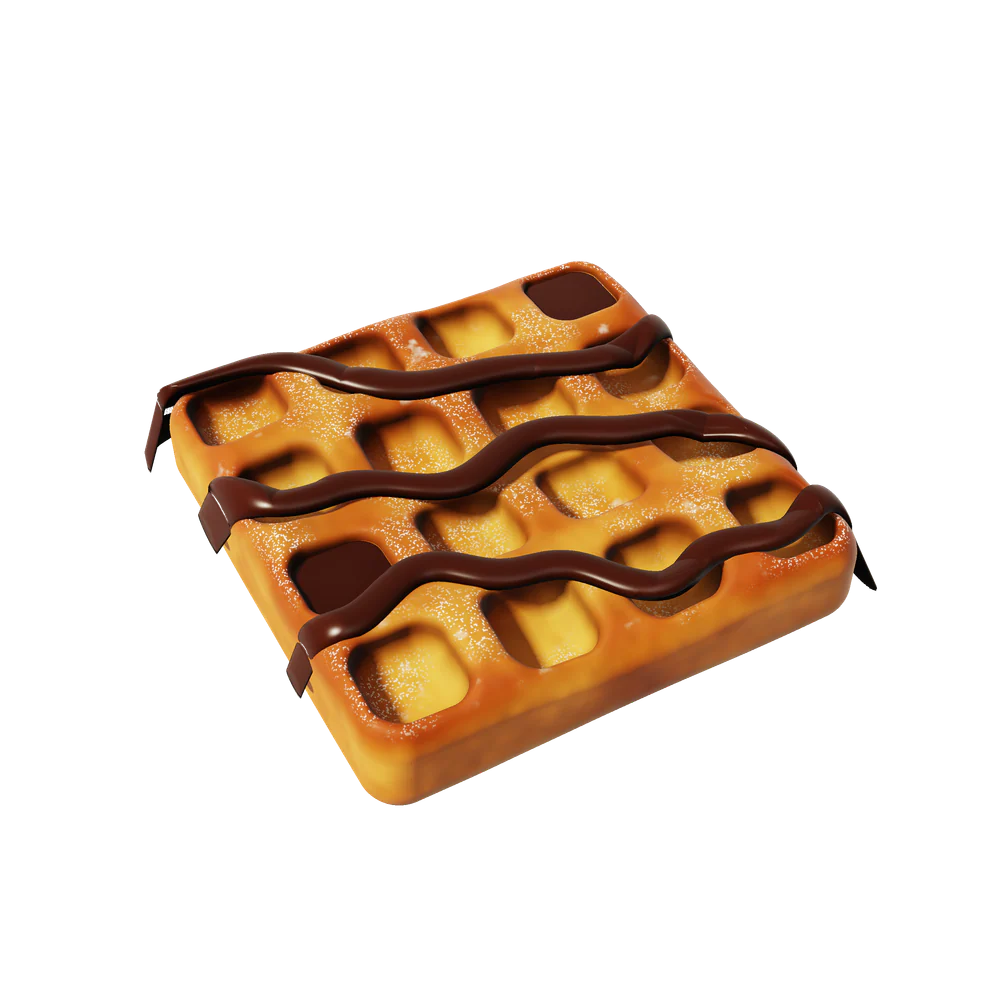
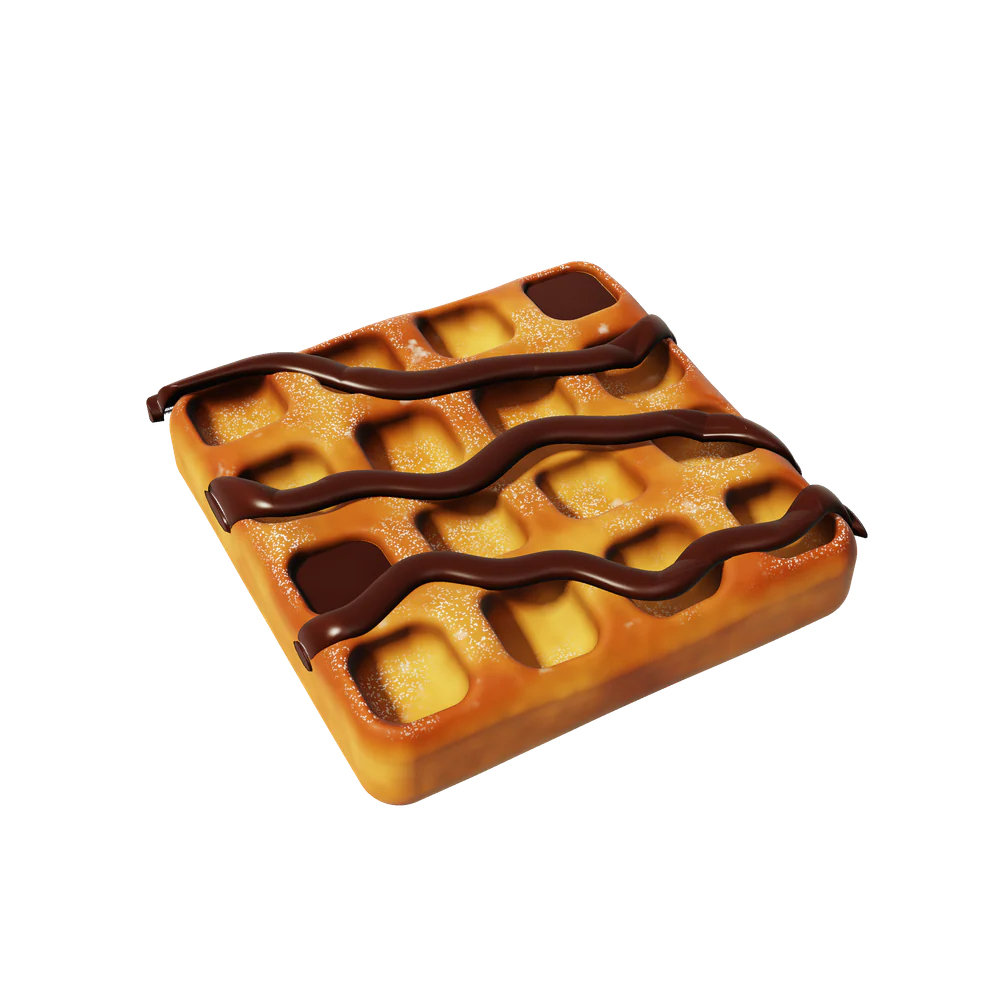
Critique cycles 2–3: art direction, accessibility, robustness
- Nº01 waffle re-rendered (bitter chocolate + pistachio crumbs)
- Compass needle on the regions teaser; stronger menu ring
- Shake sits inside the A of SHAKE; product scenes on a 12-col grid
- Reveal masks open past the box (no clipped shadows), IO threshold 0
- Contrast and heading-order fixes (axe: 0 violations), valid HTML
- Curtain listens only to its own clip-path transition
- Hero poster re-rendered to match the live first frame
- Hidden menu panels no longer preload; no-JS type fallbacks
- README: deployment, price updates, image slot specs, open items

Claude-Session: https://claude.ai/code/session_011WxLgstcs8Zsx1KYuAuDaH

diff --git a/index.html b/index.html
@@ -127,7 +127,7 @@
           <span data-pass="2">BARDAKTA</span>
         </div>
 
-        <ol class="hero__beats" aria-label="Cupistan nasıl doğdu">
+        <ol class="hero__beats">
           <li class="hero__beat is-active" data-beat="0">
             <span class="t-micro">01 — Waffle</span>
             <p>Önce waffle. Dört kenar, on altı cep, tek bir çıtırlık.</p>
@@ -160,7 +160,8 @@
     </section>
 
     <!-- ======================================================= PRODUCTS -->
-    <div class="products" aria-label="Öne çıkan ürünler">
+    <section class="products" aria-labelledby="products-title">
+      <h2 id="products-title" class="sr-only">Öne çıkan ürünler</h2>
 
       <!-- Nº01 — Waffle: oversized, bleeding off the left edge, name standing vertical -->
       <article class="scene scene--waffle" aria-labelledby="p01-title" data-tilt-area>
@@ -176,7 +177,7 @@
         <p class="scene__display" aria-hidden="true"><span data-fit>WAFFLE</span></p>
         <div class="scene__info" data-reveal-group>
           <p class="scene__no t-micro"><span>Nº 01</span><span>Waffle</span></p>
-          <h2 id="p01-title" class="scene__title"><span class="line"><span>Fıstıklı</span></span><span class="line"><span style="--i:1">Waffle</span></span></h2>
+          <h3 id="p01-title" class="scene__title"><span class="line"><span>Fıstıklı</span></span><span class="line"><span style="--i:1">Waffle</span></span></h3>
           <p class="scene__desc" data-reveal="fade" style="--i:2">Belçika usulü hamur, bitter çikolata, bol kırık Antep fıstığı. Dört kenarı çıtır, on altı cebi dolu.</p>
           <p class="scene__price price" data-reveal="fade" style="--i:3" data-item="fistikli-waffle"><data value="420">420 ₺</data></p>
         </div>
@@ -196,7 +197,7 @@
         </div>
         <div class="scene__info" data-reveal-group>
           <p class="scene__no t-micro"><span>Nº 02</span><span>İmza</span></p>
-          <h2 id="p02-title" class="scene__title"><span class="line"><span>Cupistan</span></span><span class="line"><span style="--i:1">Cup</span></span></h2>
+          <h3 id="p02-title" class="scene__title"><span class="line"><span>Cupistan</span></span><span class="line"><span style="--i:1">Cup</span></span></h3>
           <p class="scene__desc" data-reveal="fade" style="--i:2">Waffle parçaları, bir top dondurma, üstünden akan bitter çikolata. Hepsi tek bardakta; yürürken yenir.</p>
           <p class="scene__price price" data-reveal="fade" style="--i:3" data-item="cupistan-cup"><data value="260">260 ₺</data></p>
         </div>
@@ -223,7 +224,7 @@
         </div>
         <div class="scene__info" data-reveal-group>
           <p class="scene__no t-micro"><span>Nº 03</span><span>Dondurma</span></p>
-          <h2 id="p03-title" class="scene__title"><span class="line"><span data-stretch>Üç Top</span></span><span class="line"><span style="--i:1">Bardak</span></span></h2>
+          <h3 id="p03-title" class="scene__title"><span class="line"><span data-stretch>Üç Top</span></span><span class="line"><span style="--i:1">Bardak</span></span></h3>
           <p class="scene__desc" data-reveal="fade" style="--i:2">Üç top, üç karakter: Antep fıstığı, bitter çikolata, sade. Tepesine sıcak çikolata.</p>
           <p class="scene__price price" data-reveal="fade" style="--i:3" data-item="uc-top-bardak"><data value="195">195 ₺</data></p>
         </div>
@@ -255,7 +256,7 @@
         </div>
         <div class="scene__info" data-reveal-group>
           <p class="scene__no t-micro"><span>Nº 04</span><span>Tatlı</span></p>
-          <h2 id="p04-title" class="scene__title"><span class="line"><span>Ekler</span></span></h2>
+          <h3 id="p04-title" class="scene__title"><span class="line"><span>Ekler</span></span></h3>
           <div class="scene__switch" role="group" aria-label="Kaplama seç">
             <button type="button" data-variant="cikolata" aria-pressed="true">Çikolata</button>
             <button type="button" data-variant="fistik" aria-pressed="false">Fıstık</button>
@@ -283,7 +284,7 @@
         </div>
         <div class="scene__info" data-reveal-group>
           <p class="scene__no t-micro"><span>Nº 05</span><span>İçecek</span></p>
-          <h2 id="p05-title" class="scene__title"><span class="line"><span>Çikolatalı</span></span><span class="line"><span style="--i:1">Milkshake</span></span></h2>
+          <h3 id="p05-title" class="scene__title"><span class="line"><span>Çikolatalı</span></span><span class="line"><span style="--i:1">Milkshake</span></span></h3>
           <p class="scene__desc" data-reveal="fade" style="--i:2">Yoğun, soğuk, kremalı. Pipet altın, bardak siyah, gerisi çikolata.</p>
           <p class="scene__price price" data-reveal="fade" style="--i:3" data-item="cikolatali-milkshake"><data value="190">190 ₺</data></p>
         </div>
@@ -297,7 +298,7 @@
           <figcaption><span class="t-micro">Bir de</span> Türk kahvesi, lokumuyla. <span class="price" data-item="turk-kahvesi"><data value="90">90 ₺</data></span></figcaption>
         </figure>
       </article>
-    </div>
+    </section>
 
     <!-- ========================================================== STORY -->
     <section class="story" aria-labelledby="story-title">

diff --git a/assets/js/modules/transition.js b/assets/js/modules/transition.js
@@ -26,7 +26,12 @@ export function initTransition() {
     requestAnimationFrame(() => requestAnimationFrame(() => {
       curtain.classList.add('is-out');
       curtain.classList.remove('is-cover');
-      curtain.addEventListener('transitionend', () => curtain.classList.remove('is-out'), { once: true });
+      const clear = (ev) => {
+        if (ev.target !== curtain) return;
+        curtain.removeEventListener('transitionend', clear);
+        curtain.classList.remove('is-out');
+      };
+      curtain.addEventListener('transitionend', clear);
     }));
   }
 
@@ -46,7 +51,12 @@ export function initTransition() {
     curtain.classList.add('is-in');
     let done = false;
     const go = () => { if (!done) { done = true; location.href = url.href; } };
-    curtain.addEventListener('transitionend', go, { once: true });
+    const onEnd = (ev) => {
+      if (ev.target !== curtain || ev.propertyName !== 'clip-path') return;
+      curtain.removeEventListener('transitionend', onEnd);
+      go();
+    };
+    curtain.addEventListener('transitionend', onEnd);
     setTimeout(go, 900);
   });
 

diff --git a/assets/css/menu.css b/assets/css/menu.css
@@ -97,8 +97,10 @@
 .compass__tab--w .compass__dir { writing-mode: horizontal-tb; transform: rotate(90deg); }
 .compass__tab--w .compass__dir { transform: rotate(-90deg); }
 
-/* without JS the regions are plain anchors and every panel is visible */
+/* without JS the regions are plain anchors and every panel is visible;
+   with JS, only one panel exists visually from the first paint */
 .menu:not(.is-tabs) .panel + .panel { margin-top: 18vh; }
+.js .menu:not(.is-tabs) .panel + .panel { display: none; }
 
 /* --------------------------------------------------------------------------
    Panel
@@ -130,7 +132,7 @@
   text-transform: uppercase;
   white-space: nowrap;
 }
-.panel__title [data-fit] { display: block; font-size: clamp(4rem, 13vw, 15rem); }
+.panel__title [data-fit] { display: block; font-size: clamp(3rem, 8.5vw, 10rem); }
 .panel--dondurma .panel__title { font-stretch: 125%; }
 .panel--tatli .panel__title {
   font-family: var(--font-serif);

diff --git a/assets/css/home.css b/assets/css/home.css
@@ -64,7 +64,7 @@
   letter-spacing: -0.03em;
   white-space: nowrap;
   text-align: center;
-  font-size: 19.5vw; /* pre-fit estimate, refined by fit.js */
+  font-size: 17vw; /* pre-fit estimate, refined by fit.js */
   transform: translate3d(0, calc(var(--p) * -16vh), 0) scale(calc(1 + var(--p) * 0.14));
   transform-origin: 50% 60%;
 }
@@ -883,7 +883,8 @@
     font-size: 40vw;
     line-height: 0.78;
   }
-  .hero__line { display: block; white-space: nowrap; }
+  .hero__line { display: block; white-space: nowrap; font-size: 27vw; }
+  .hero__line:first-child { font-size: 44vw; }
   .hero__line + .hero__line { margin-top: 0.04em; }
   .hero__tagline { align-self: flex-start; margin-top: 16px; font-size: 1.5rem; }
   .hero__meta { display: none; }

diff --git a/assets/js/modules/hero.js b/assets/js/modules/hero.js
@@ -43,7 +43,8 @@ export async function initHero(root) {
 
   // ---- WebGL --------------------------------------------------------------
   let renderer = null;
-  const canUseGL = !reduce && !saveData() && 'WebGL2RenderingContext' in window;
+  // data-hero-static on the section keeps the poster (e.g. once a real photo replaces it)
+  const canUseGL = !reduce && !saveData() && !root.hasAttribute('data-hero-static') && 'WebGL2RenderingContext' in window;
 
   const light = { x: 0, y: 0, tx: 0, ty: 0 };
   let scale = isMobile() ? 0.5 : 0.72;

diff --git a/README.md b/README.md
@@ -1,0 +1,116 @@
+# CUPISTAN — Bir bardağa sığan ülke
+
+CUPISTAN'ın dijital marka deneyimi. Bir "kafe sitesi" değil; markanın kendi ülkesi.
+
+**Konsept.** *-istan* "ülke" demek. Cupistan, bardakların ülkesi: sınırı bardağın kenarı, nüfusu tatlıya hayır diyemeyenler, başkenti Gebze. Bütün site bu fikirden türedi:
+
+| Fikir | Sitede karşılığı |
+| --- | --- |
+| Ülkenin doğuşu | Hero: tek planlık sahne — waffle, çikolata, bardak. Scroll kamerayı hareket ettirir, ışığı imleç (mobilde parmak) taşır. |
+| Sınır = bardağın kenarı | Görseller "kenar" maskesiyle (daire) açılır; hikâye bölümünde dönen sınır mührü. |
+| Dört bölge | Menü kategorileri ekranın dört kenarında yaşar (K/D/G/B). Pusula halkası aktif bölgeye döner. |
+| Ürünün formu = tipografi | Ekler uzun → geniş yazı (wdth 125). Milkshake uzun → dar yazı (wdth 62). Dondurma esner → hızlı kaydırınca yazı uzar. |
+| Son reklam karesi | Footer: altın zemin, dev CUPISTAN, bardak, "Menüyü keşfet". |
+
+## Klasör yapısı
+
+```
+index.html            Ana sayfa
+menu.html             Menü (tools/build-menu.mjs ile üretilen bölümler içerir)
+404.html              "Sınır dışı kaldın."
+assets/
+  css/base.css        Tasarım sistemi: renkler, tipografi, nav, imleç, grain, perde, final
+  css/home.css        Ana sayfa sahneleri (masaüstü + ayrı mobil art direction)
+  css/menu.css        Menü: pusula navigasyonu, panel koreografisi
+  js/main.js          Giriş noktası; modüller sadece ilgili HTML varsa yüklenir
+  js/core/            Tek rAF döngüsü, scroll/hız durumu, yardımcılar
+  js/modules/         hero, menu, fit, reveal, cursor, magnetic, velocity, parallax, follow, variants, melt, transition, nav
+  js/gl/              Ürün shader'ı (SDF) + WebGL2 renderer
+  fonts/              Archivo (değişken: wght + wdth), Bodoni Moda Italic — Türkçe karakterlere göre alt kümelenmiş, kendi sunucunuzda
+  img/products/       Ürün görselleri (şeffaf WebP, çoklu genişlik)
+  img/social/         Instagram duvarı içerikleri
+  img/og/             Paylaşım görseli (1200×630)
+data/menu.json        Menü ve fiyatlar için TEK kaynak
+tools/                Geliştirme araçları (yayına yüklenmez)
+```
+
+Derleme adımı yoktur. Dosyalar olduğu gibi yayınlanır.
+
+## Yerelde çalıştırma
+
+```bash
+npm run serve            # http://localhost:5173
+```
+
+(Node 18+. ES modülleri `file://` ile çalışmaz; bir sunucu gerekir.)
+
+## Yayına alma (Hostinger / cPanel / herhangi bir statik barındırma)
+
+Şunları yükleyin: `index.html`, `menu.html`, `404.html`, `assets/`, `favicon.svg`, `favicon-32.png`, `apple-touch-icon.png`, `site.webmanifest`, `robots.txt`, `sitemap.xml`, `.htaccess`.
+`tools/`, `data/`, `node_modules/`, `package*.json` yüklenmez (`.htaccess` yine de bunları engeller).
+
+`.htaccess`: HTTPS'e ve www'suz alana yönlendirme, 404 sayfası, sıkıştırma, uzun önbellek, güvenlik başlıkları.
+
+## Fiyat veya ürün değiştirme
+
+1. `data/menu.json` dosyasını düzenleyin.
+2. `node tools/build-menu.mjs` çalıştırın.
+
+Bu komut `menu.html` içindeki kategori panellerini ve Menu şemasını (JSON-LD) yeniden yazar, ana sayfadaki `data-item="…"` taşıyan fiyatları da günceller. Görseli olmayan bir ürün eklenirse komut hata verir; kırık bağlantı oluşamaz.
+
+## Görsel slotları — gerçek fotoğrafla birebir değiştirme
+
+Şu anki ürün görselleri, sitenin kendi shader'ıyla üretilmiş stüdyo render'larıdır (`tools/render`). Hepsi aynı ışık ve aynı sanat yönetimiyle çekilmiş bir ürün ailesi gibi davranır. Gerçek çekim geldiğinde **aynı dosya adı, aynı oran ve aynı genişliklerde** WebP verin; HTML'e dokunmanız gerekmez.
+
+| Slot | Oran (en büyük boy) | Genişlikler |
+| --- | --- | --- |
+| `hero-poster` | 1400×1400 | 700, 1000, 1400 |
+| `waffle-fistik` | 1600×1600 | 400, 800, 1200, 1600 |
+| `cup-imza` | 1200×1500 | 400, 600, 900, 1200 |
+| `dondurma-uclu` | 1200×1500 | 400, 600, 900, 1200 |
+| `ekler-cikolata` · `ekler-fistik` · `ekler-karamel` | 1600×900 | 800, 1200, 1600 |
+| `shake-cikolata` · `shake-karamel` · `shake-cilek` | 1100×1650 | 500, 800, 1100 |
+| `kahve-turk` | 800×800 | 400, 500, 800 |
+| `waffle-klasik` · `waffle-karamel` · `brownie` · `profiterol` · `sicak-cikolata` | 800×800 | 400, 800 |
+| `cubuk-waffle` · `dondurma-sade` · `-fistik` · `-bitter` · `-cilek` · `-limon` · `-cift` | 800×1000 | 400, 800 |
+
+Çekim notları:
+
+- **Arka planı temizlenmiş (şeffaf) PNG → WebP** önerilir. Tasarım, tipografinin ürünün arkasından/önünden geçmesine dayanır; ürünün zeminden ayrılmış olması bunu korur.
+- Işık: sol üstten sıcak tepe ışığı, arkadan ince kontur ışığı, koyu ve sakin gölgeler.
+- Ürün kadrajın ~%70–80'ini doldursun, yatayda ortalı olsun.
+- Sosyal kareler (`img/social/`) `tools/render/compose.html` içindeki şablonlardan üretilir; gerçek Instagram fotoğraflarıyla da değiştirilebilir (4:5, 1:1, 9:16).
+
+**Hero.** Açılışta `hero-poster` görünür (LCP), WebGL sahnesi derlenince piksel piksel aynı kareden devralır. Gerçek fotoğrafa geçmek isterseniz `hero-poster` dosyalarını değiştirin ve `<section class="hero" …>` etiketine `data-hero-static` ekleyin; sahne fotoğrafla, CSS hareketleriyle çalışır.
+
+Render'ları yeniden üretmek için:
+
+```bash
+npm install
+npm run render                      # tüm ürünler  (tools/render/stills.mjs)
+node tools/render/render.mjs cup-imza
+node tools/render/compose.mjs       # Instagram kareleri + OG görseli
+node tools/icons.mjs                # favicon ve uygulama ikonları
+```
+
+## Yayından önce teyit edilmesi gerekenler
+
+Aşağıdakiler kamuya açık kaynaklarda doğrulanamadı; tek yerden değiştirilebilir durumdadır:
+
+- **Instagram kullanıcı adı**: `@cupistan` varsayıldı (`index.html`, `menu.html`, JSON-LD `sameAs`).
+- **Alan adı**: `https://cupistan.com` varsayıldı (canonical, Open Graph, JSON-LD, `sitemap.xml`, `robots.txt`).
+- **Fiyatlar ve ürün açıklamaları**: `data/menu.json` içinde örnek değerlerdir.
+- **Logo ve kurumsal renkler**: resmi logo bulunamadığı için sistem ürünün kendisinden türetildi (kızarmış hamur altını, bitter çikolata, krema, fıstık). Renkler `assets/css/base.css` başındaki değişkenlerdedir.
+- **Telefon ve çalışma saatleri**: bilinmediği için sitede ve şemada yer almıyor; uydurulmadı. Eklenmek istenirse JSON-LD'ye `telephone` ve `openingHoursSpecification` eklenmelidir.
+- Adres: İlyas Uzuner Cd. No:15/A, Gebze / Kocaeli. "Yol tarifi" bağlantısı Google Haritalar aramasıdır.
+
+## Teknik notlar
+
+- **Performans.** İlk boyamada sadece poster görseli, 2 font ve 2 CSS dosyası yüklenir. WebGL sahnesi tarayıcı boşta kalınca derlenir; görünmezken çizim durur; kare süresine göre çözünürlüğü kendini ayarlar. Bütün diğer görseller `loading="lazy"`, `srcset` ve sabit en-boy oranıyla (CLS yok).
+- **Erişilebilirlik.** Semantik başlık hiyerarşisi, "İçeriğe geç" bağlantısı, görünür odak halkaları, menüde ARIA sekme kalıbı (ok tuşları / Home / End), `prefers-reduced-motion` desteği (sabit hero, maskesiz açılış, ışık/imleç efektleri kapalı). axe-core denetimi: 0 ihlal.
+- **JavaScript kapalıyken** bütün içerik okunur: menü kategorileri alt alta listelenir, bölge bağlantıları sayfa içi çapa olarak çalışır.
+- **Tarayıcılar.** Güncel Chrome, Edge, Safari (iOS 15+), Firefox. WebGL2 yoksa hero poster ile çalışır.
+- **SEO.** Her sayfada başlık/açıklama, canonical, Open Graph + Twitter kartı; ana sayfada `FoodEstablishment`/`IceCreamShop` (LocalBusiness) şeması, menüde `Menu` şeması (bölümler, ürünler, fiyatlar), `sitemap.xml`, `robots.txt`.
+- **QA.** `npm run serve` açıkken `node tools/qa.mjs` masaüstü ve mobil ekran görüntüleri alır, konsol hatalarını ve 4xx/5xx yanıtları (kırık bağlantıları) raporlar.
+
+Fontlar SIL Open Font License ile lisanslıdır (Archivo, Bodoni Moda).
